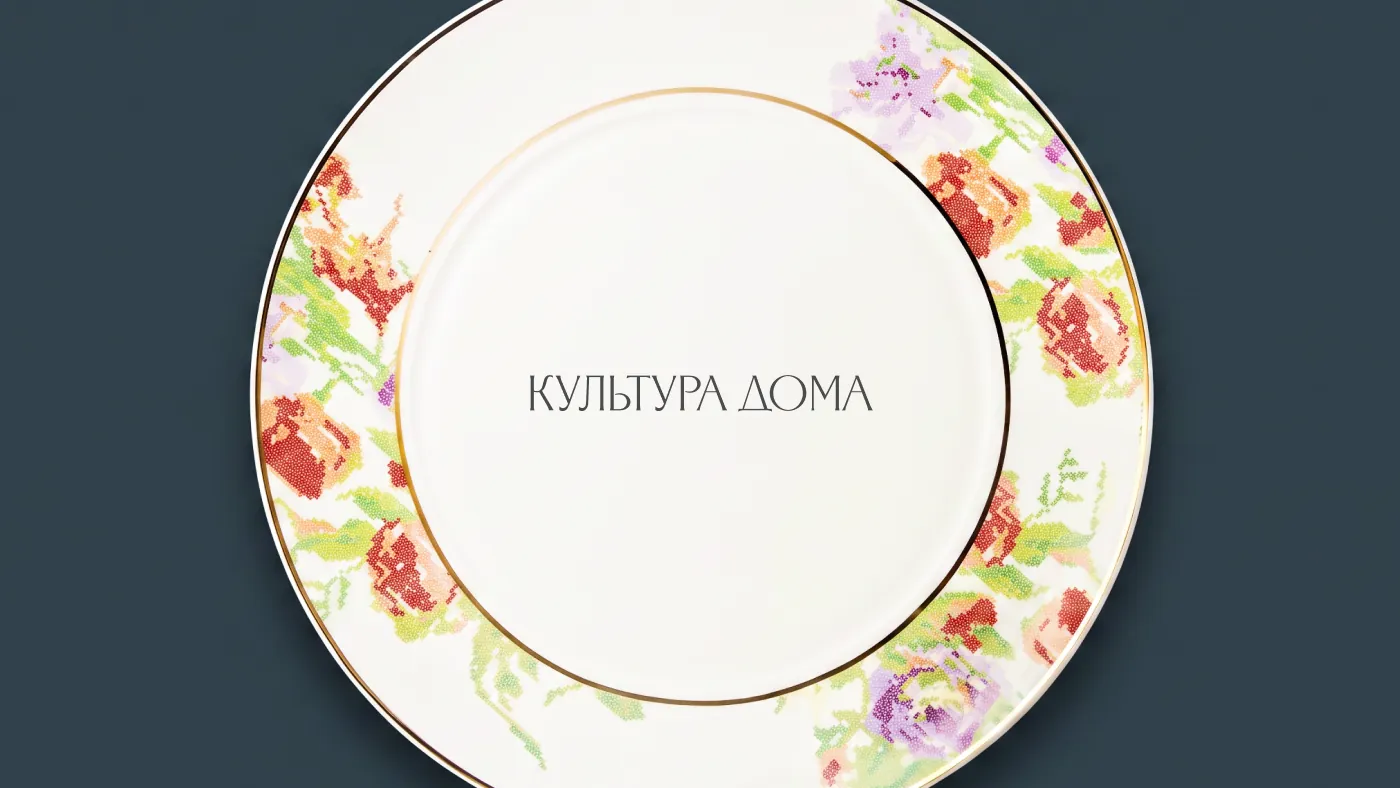
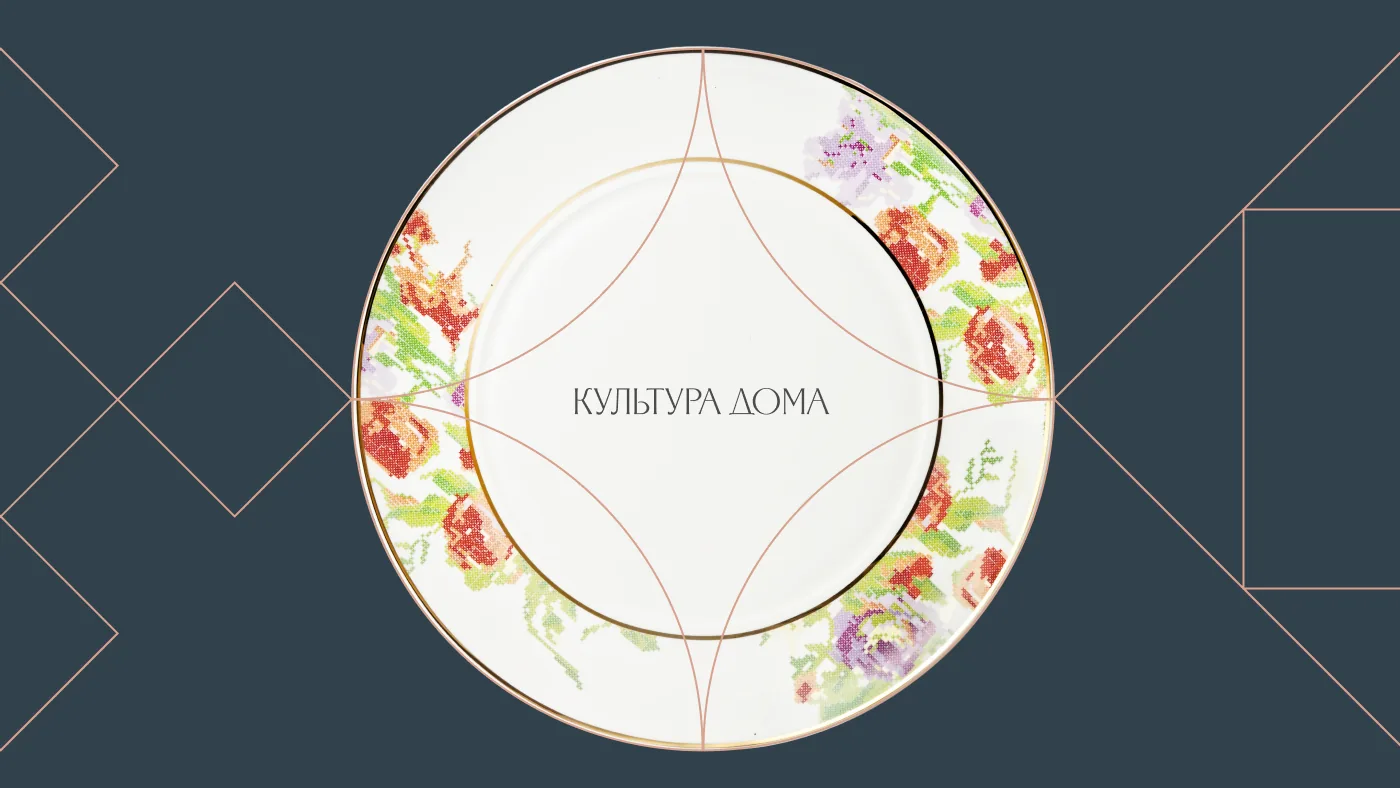
Культура Дома: use the correct line-art cover; size video to the plate
- Replace the poster with the correct cover (plate on the copper line-art
  ground, teal #31414c).
- Enlarge the hover circle to the plate's diameter (~50% width, centered) so
  the round video plays exactly where the plate was, not a small centre circle.

Claude-Session: https://claude.ai/code/session_01T7ySN3v32MrjoD2bJa8JPx

diff --git a/css/styles.css b/css/styles.css
@@ -308,14 +308,14 @@ a { color: inherit; text-decoration: none; }
 
 /* Plate-reveal tile: round video centered under the plate poster; the plate
    fades out on hover to uncover the round clip (Культура Дома) */
-.item--plate .item__media { background: #314049; }   /* teal, matches the poster */
+.item--plate .item__media { background: #31414c; }   /* teal, matches the cover */
 .item__img--plate { z-index: 2; transition: opacity .4s ease; }
 .item--plate .item__tile:hover .item__img--plate { opacity: 0; }
 .item__round {
   position: absolute;
   left: 50%; top: 50%;
   transform: translate(-50%, -50%);
-  width: 25.43%;              /* 356 / 1400 — same ratio as the mockup */
+  width: 50%;                /* matches the plate's diameter (≈702/1400) */
   aspect-ratio: 1 / 1;
   border-radius: 50%;
   overflow: hidden;
